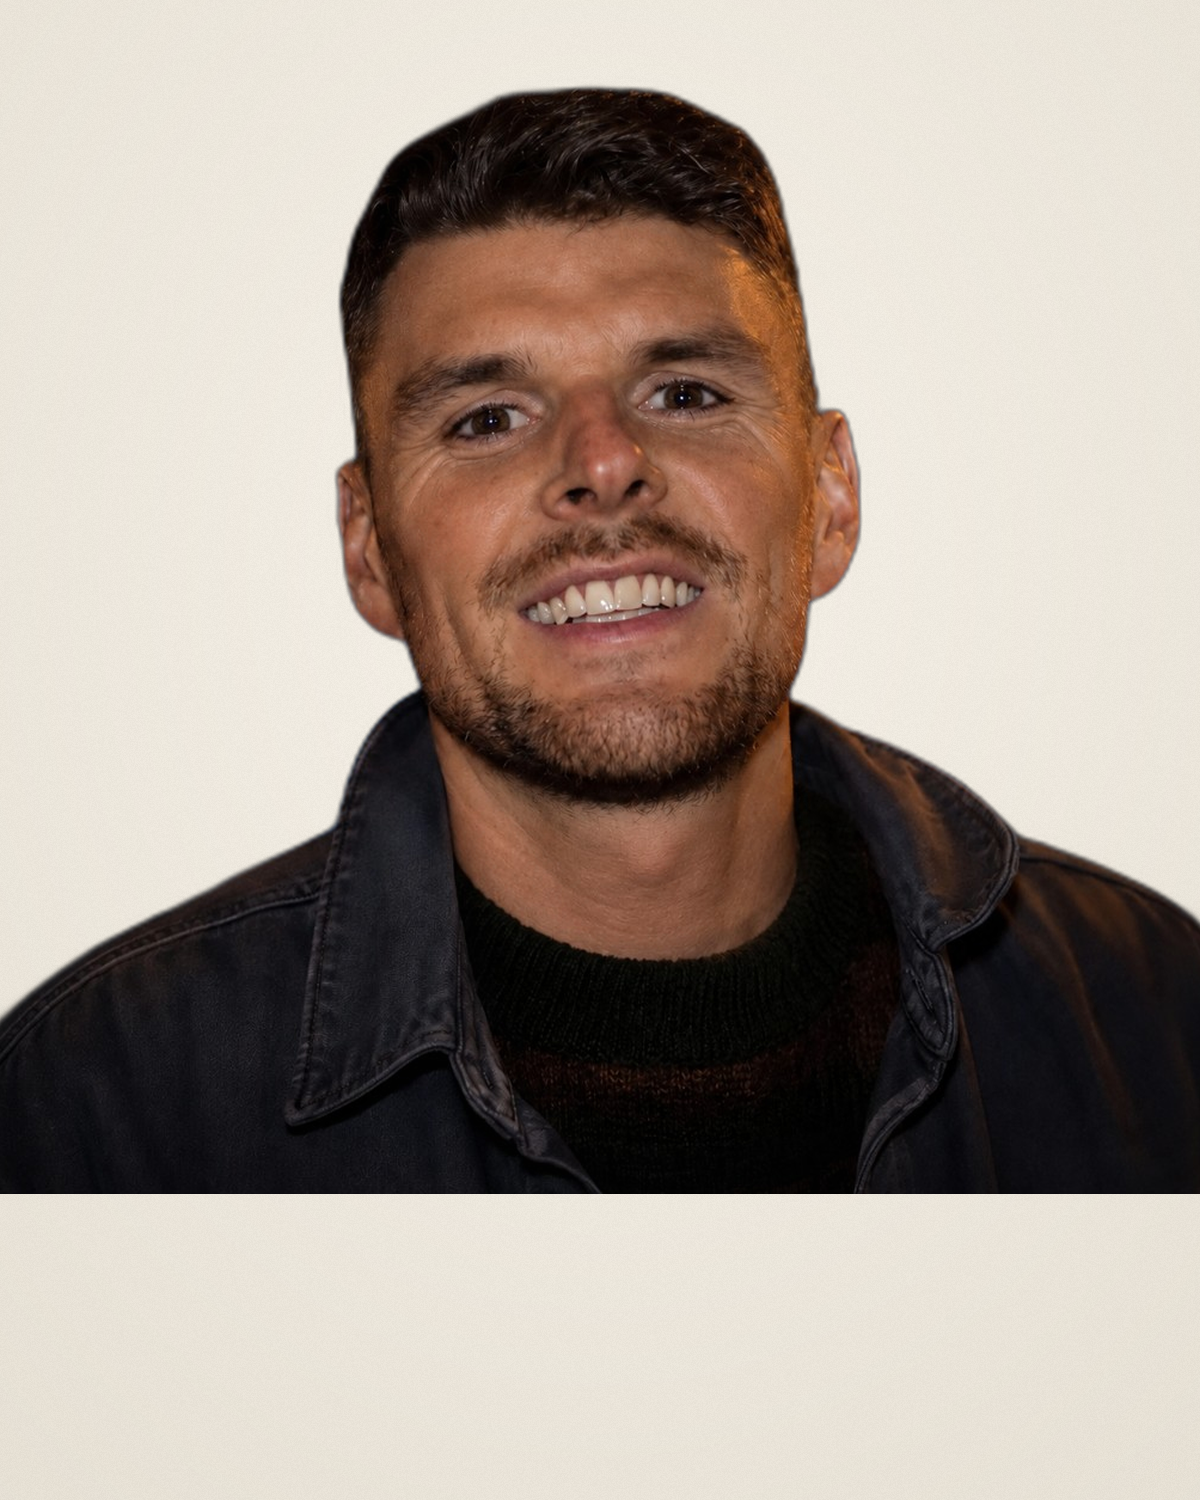
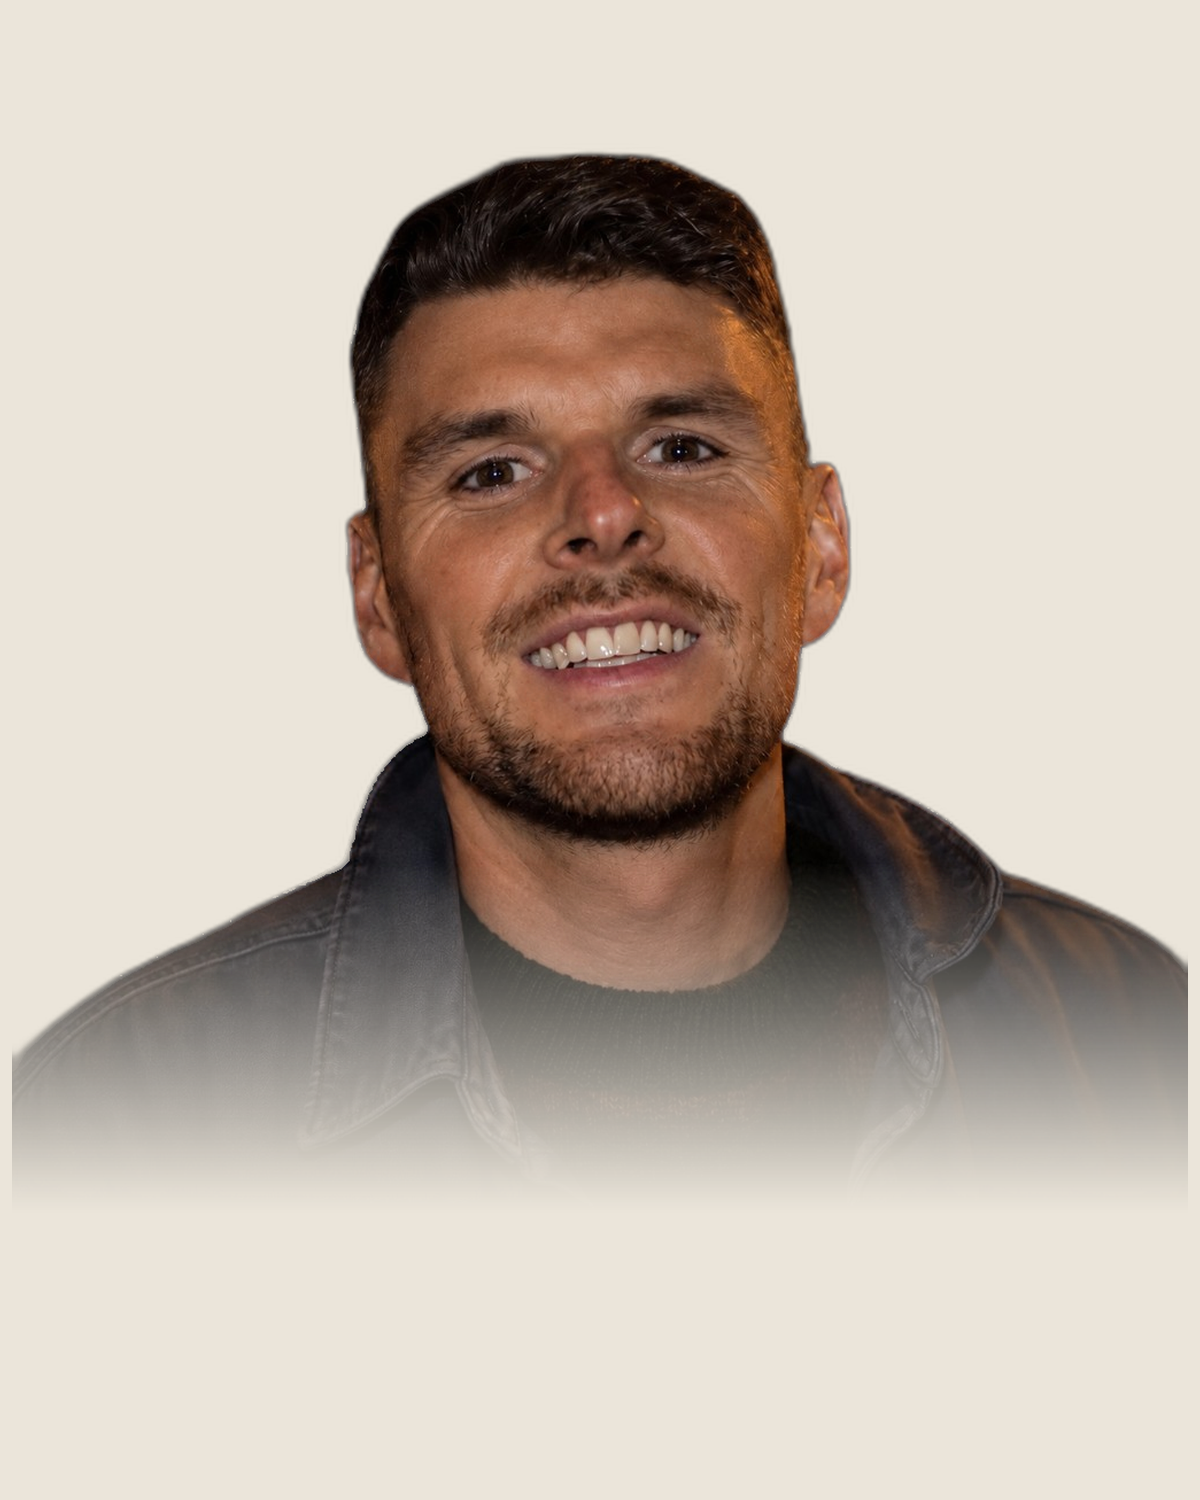
Blend About portrait into the warm paper section.
Use the transparent cutout with a soft bottom fade instead of a hard framed card so the headshot sits on the page instead of in a box.

diff --git a/src/styles/global.css b/src/styles/global.css
@@ -3052,28 +3052,47 @@ html[data-theme='dark'] .border-border {
   display: grid;
   grid-template-columns: minmax(16rem, 0.95fr) minmax(22rem, 1.05fr);
   gap: clamp(1.5rem, 5vw, 4.5rem);
-  align-items: start;
+  align-items: end;
 }
 
 .about-v2__photo {
   margin: 0;
-  max-width: 22rem;
+  max-width: 20rem;
   width: 100%;
+  align-self: end;
 }
 
 .about-v2__frame {
+  position: relative;
   overflow: hidden;
-  border-radius: 0.5rem;
-  aspect-ratio: 4 / 5;
-  background: var(--ml-deep, #e9e2d7);
+  border-radius: 0;
+  aspect-ratio: auto;
+  background: transparent;
+}
+
+.about-v2__frame::after {
+  content: '';
+  position: absolute;
+  left: 0;
+  right: 0;
+  bottom: 0;
+  height: 28%;
+  pointer-events: none;
+  background: linear-gradient(
+    180deg,
+    rgba(247, 246, 241, 0) 0%,
+    rgba(247, 246, 241, 0.55) 45%,
+    rgba(247, 246, 241, 0.96) 100%
+  );
 }
 
 .about-v2__photo img {
   width: 100%;
-  height: 100%;
+  height: auto;
   display: block;
-  object-fit: cover;
-  object-position: center 28%;
+  object-fit: contain;
+  object-position: center bottom;
+  filter: drop-shadow(0 18px 28px rgba(48, 47, 43, 0.12));
 }
 
 .about-v2__photo figcaption {